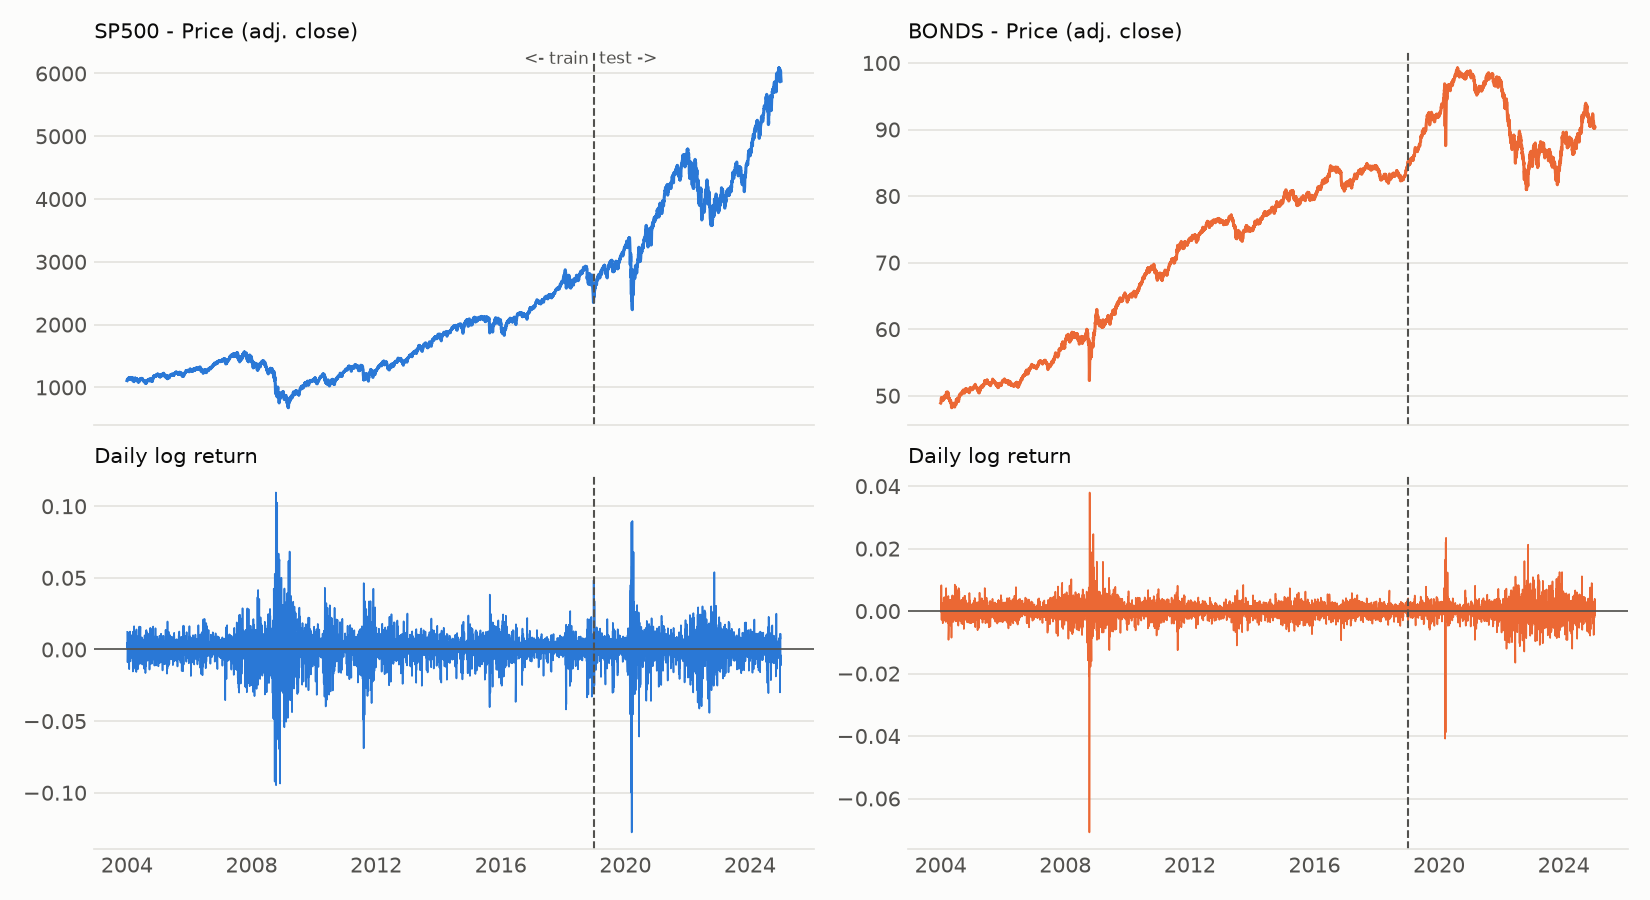
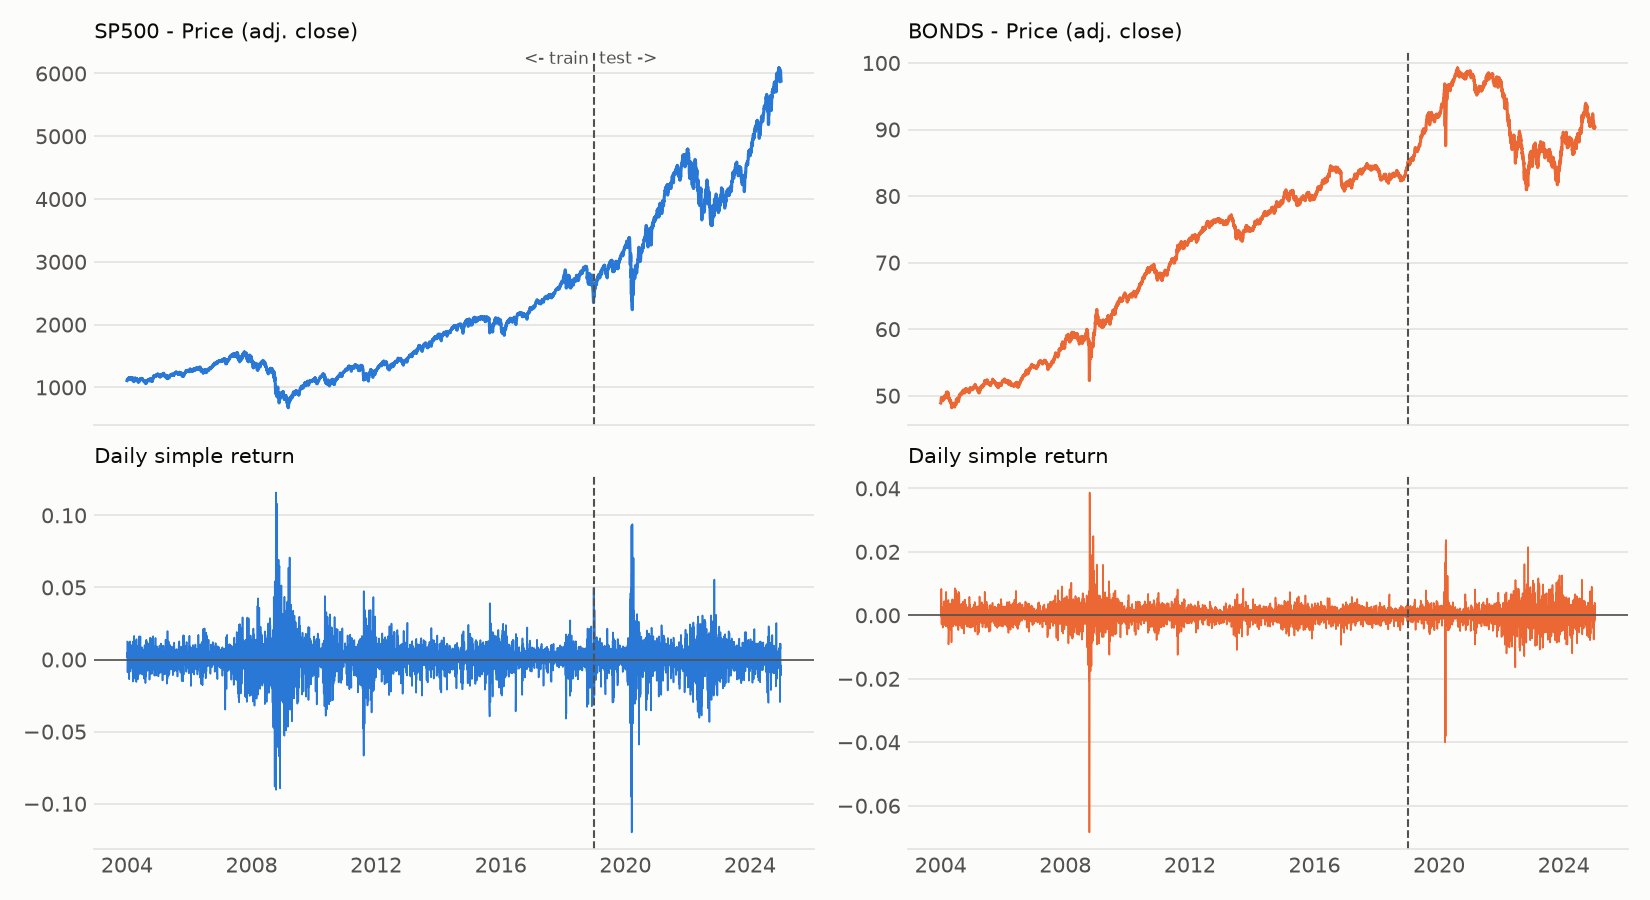
Switch from log returns to simple returns

diff --git a/src/data.py b/src/data.py
@@ -1,4 +1,4 @@
-"""Download prices, convert to daily log returns, and split into train/test.
+"""Download prices, convert to daily simple returns, and split into train/test.
 
 Assets (all downloaded with yfinance, USD):
   - SP500 : ^GSPC
@@ -9,7 +9,6 @@ OSEBX (Norway) is not on Yahoo before 2013; the CSV loader is kept below, commen
 """
 from pathlib import Path
 
-import numpy as np
 import pandas as pd
 import yfinance as yf
 
@@ -63,8 +62,8 @@ def download_prices(refresh=False):
 
 
 def compute_returns(prices):
-    """Daily log returns on days where all assets traded (different holidays are dropped)."""
-    return np.log(prices.dropna()).diff().dropna()
+    """Daily simple returns (P_t / P_{t-1} - 1) on days where all assets traded (different holidays are dropped)."""
+    return prices.dropna().pct_change().dropna()
 
 
 def split_train_test(returns, split_date=SPLIT_DATE):
@@ -73,5 +72,5 @@ def split_train_test(returns, split_date=SPLIT_DATE):
 
 
 def load_data(refresh=False):
-    """Download everything and return (train, test) DataFrames of log returns."""
+    """Download everything and return (train, test) DataFrames of simple returns."""
     return split_train_test(compute_returns(download_prices(refresh)))

diff --git a/src/plot_data.py b/src/plot_data.py
@@ -1,4 +1,4 @@
-"""Plot prices and daily log returns per asset; saves results/data_overview.png.
+"""Plot prices and daily simple returns per asset; saves results/data_overview.png.
 
 Run from the project root:  python -m src.plot_data
 """
@@ -18,7 +18,7 @@ def main():
 
     fig, axes = plt.subplots(2, len(prices.columns), figsize=(11, 6), sharex=True, facecolor=SURFACE)
     for j, (name, color) in enumerate(zip(prices.columns, COLORS)):
-        for i, (series, label) in enumerate([(prices[name], "Price (adj. close)"), (returns[name], "Daily log return")]):
+        for i, (series, label) in enumerate([(prices[name], "Price (adj. close)"), (returns[name], "Daily simple return")]):
             ax = axes[i, j]
             ax.set_facecolor(SURFACE)
             ax.plot(series.index, series.values, color=color, lw=0.8 if i else 1.5)

diff --git a/CLAUDE.md b/CLAUDE.md
@@ -10,7 +10,7 @@ with the Kupiec test, and do CVaR portfolio optimization.
 
 ## Data
 - Daily prices 2004–2024 from yfinance, stored in `data/` (git-ignored).
-- Assets: S&P 500 (^GSPC) and AGG via yfinance (OSEBX loader is commented out in `src/data.py`; add assets in `YF_TICKERS`). `src/data.py:load_data()` returns (train, test) log returns.
+- Assets: S&P 500 (^GSPC) and AGG via yfinance (OSEBX loader is commented out in `src/data.py`; add assets in `YF_TICKERS`). `src/data.py:load_data()` returns (train, test) simple returns.
 - Strict split: train 2004–2018, test 2019–2024. Never fit anything on test data.
 
 ## Layout
@@ -18,6 +18,6 @@ with the Kupiec test, and do CVaR portfolio optimization.
 
 ## Conventions
 - Environment: conda, `environment.yml` (env name `ind310`). Add new packages there.
-- Use log returns unless stated otherwise; fix random seeds for reproducibility.
+- Use simple returns (not log returns); fix random seeds for reproducibility.
 - Keep logic in `src/` and call it from notebooks; keep notebooks readable.
 - Do not commit data, checkpoints or `.env`.
